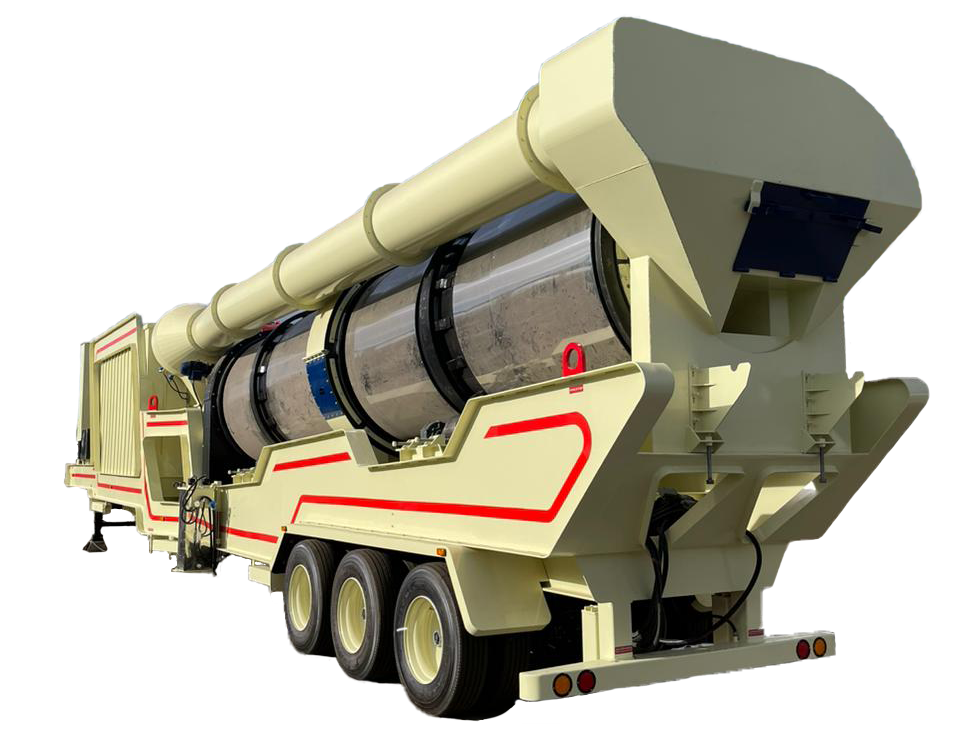
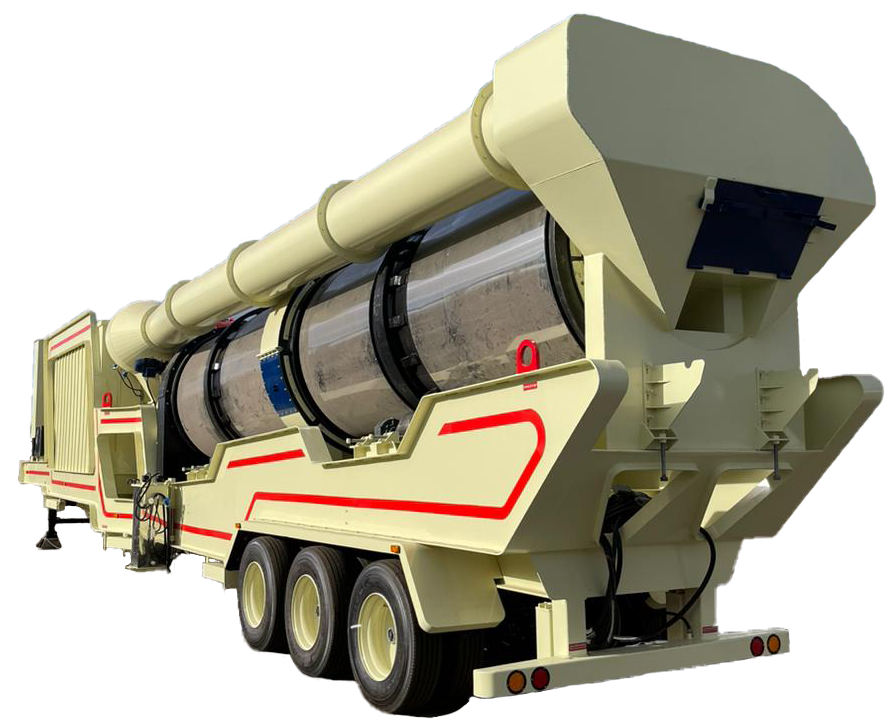
Assets faltantes

Changed region(s): [[0.0, 0.0, 0.9978, 1.0], [0.6349, 0.2121, 0.6652, 0.2424]]

diff --git a/src/components/DrumMixers/DrumMixPlanos.tsx b/src/components/DrumMixers/DrumMixPlanos.tsx
@@ -13,9 +13,10 @@ import tab5Right from '../../assets/images/DrumMixers/tab5Right.png';
 import tab1Main from '../../assets/images/DrumMixers/tab1Main.png';
 import tab1Left from '../../assets/images/DrumMixers/tab1Left.png';
 import tab1Right from '../../assets/images/DrumMixers/tab5Right.png';
-import reinfo1 from '../../assets/images/IntegralAsphalt/reinfo1.png';
-import supportRight from '../../assets/images/IntegralAsphalt/supportright.png';
-import supportLeft from '../../assets/images/IntegralAsphalt/supportleft.png';
+import tab2Main from '../../assets/images/DrumMixers/tab2Main.png';
+import tab2Left from '../../assets/images/DrumMixers/tab2L.png';
+import tab6Main from '../../assets/images/DrumMixers/tab6M.png';
+
 
 
 gsap.registerPlugin(ScrollTrigger);
@@ -975,7 +976,7 @@ const DrumMixPlanos = () => {
                         </div>
                     </div>
                     <div className='col-span-2 flex items-start justify-center w-full h-full order-1 md:order-2'>
-                        <img src={tab1Main.src} alt="" className='w-[500px] h-auto' />
+                        <img src={tab2Main.src} alt="" className='w-[500px] h-auto' />
                     </div>
                     <div className='flex flex-col items-start justify-start h-full gap-4 col-span-1 w-full order-3 md:order-3'>
                         <div className='flex flex-col items-start justify-center gap-4 text-white'>
@@ -1235,7 +1236,7 @@ const DrumMixPlanos = () => {
                                     </div>
                                 </div>
                                 <div className='h-[185px] w-[744px] flex justify-center items-center'>
-                                    <img src={tab1Right.src} alt="" className='max-w-full max-h-full object-contain'/>
+                                    <img src={tab2Left.src} alt="" className='max-w-full max-h-full object-contain'/>
                                 </div>
                             </div>
 
@@ -2653,7 +2654,7 @@ const DrumMixPlanos = () => {
                         </div>
                     </div>
                     <div className='col-span-2 flex items-start justify-center w-full h-full order-1 md:order-2'>
-                        <img src={tab5Main.src} alt="" className='w-[200px] h-auto' />
+                        <img src={tab6Main.src} alt="" className='w-[200px] h-auto' />
                     </div>
                     <div className='flex flex-col items-start justify-start h-full gap-4 col-span-1 w-full order-3 md:order-3'>
                         <div className='flex flex-col items-start justify-center gap-4 text-white'>

diff --git a/src/components/BinUnits/BinPlanosSection.tsx b/src/components/BinUnits/BinPlanosSection.tsx
@@ -5,6 +5,7 @@ import tolva6L2 from '../../assets/images/BinUnits/tolva6L2.png';
 import tolva6L1 from '../../assets/images/BinUnits/tolva6L1.png';
 import tolva6Main from '../../assets/images/BinUnits/tolva6Main.png';
 import tolva5L1 from '../../assets/images/BinUnits/tolva5L1.png';
+import tolva5L2 from '../../assets/images/BinUnits/tolva5L2.png';
 import tolva5Main from '../../assets/images/BinUnits/tolva5Main.png';
 import tolva4L2 from '../../assets/images/BinUnits/tolva4L2.png';
 import tolva4L1 from '../../assets/images/BinUnits/tolva4L1.png';
@@ -1917,7 +1918,7 @@ const BinPlanosSection = () => {
                         </div>
                         <div className='h-[175px] w-[744px] flex justify-center items-center'>
                         {activeVersion === 'withPanels' ? (
-                                <img src={tolva3L1.src} alt="Dinámica con paneles" className='h-[175px] w-[744px]'/>
+                                <img src={tolva5L2.src} alt="Dinámica con paneles" className='h-[175px] w-[744px]'/>
                             ) : (
                                 <img src={tolva5L1.src} alt="Dinámica sin paneles" className='h-[175px] w-[744px]'/>
                             )}
